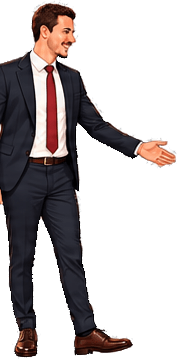
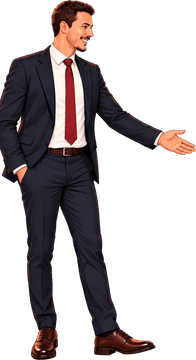
Bug Fixes

diff --git a/src/components/Location.jsx b/src/components/Location.jsx
@@ -41,6 +41,14 @@ export function Location() {
           <p className="font-tech text-xs uppercase tracking-[0.3em] text-ink-dim">
             {wedding.venueTransliteration}
           </p>
+          <div className="mt-1 flex flex-col items-center gap-1 border-t border-gold-dim/30 pt-3">
+            <p className="font-serif text-base italic text-wax sm:text-lg">
+              {wedding.hallName}
+            </p>
+            <p className="font-arabic text-sm text-ink-dim" dir="rtl">
+              {wedding.hallNameArabic}
+            </p>
+          </div>
         </div>
 
         <button

diff --git a/src/components/InvitationCard.jsx b/src/components/InvitationCard.jsx
@@ -96,7 +96,7 @@ export function InvitationCard() {
             <HeartDivider />
 
             <p className="max-w-[94%] font-serif text-[5.2cqw] leading-[1.4] text-ink">
-              Join us for a special evening filled with love, good food, and
+              Join us for a special evening filled with love, laughter, and
               great company.
             </p>
 

diff --git a/src/data/wedding.js b/src/data/wedding.js
@@ -44,6 +44,8 @@ export const wedding = {
   }),
   venue: "دار ضباط المدفعية",
   venueTransliteration: "Artillery Officers House",
+  hallName: "El Malka Hall",
+  hallNameArabic: "قاعة الملكة",
   mapsUrl: GOOGLE_MAPS_URL,
   monogram: "O & A",
 };
